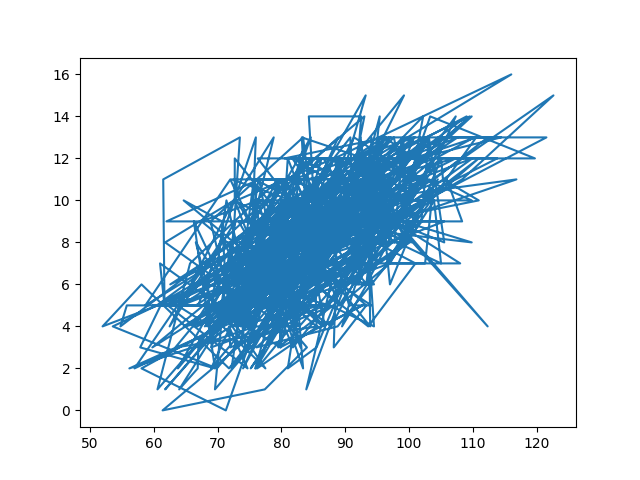
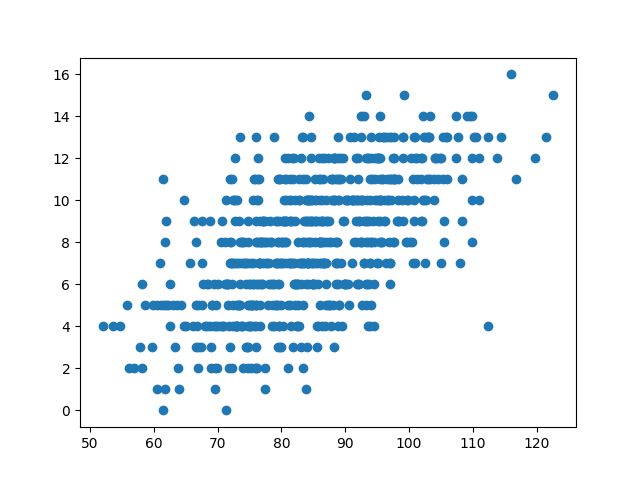
change line plot to scatter plot

diff --git a/algorithms/qb_impact_ensemble.py b/algorithms/qb_impact_ensemble.py
@@ -99,7 +99,7 @@ def main():
 	print(df_plot)
 	x_plot = df['QB Rating'].to_numpy()
 	y_plot = df['Wins'].to_numpy()
-	plt.plot(x_plot, y_plot)
+	plt.scatter(x_plot, y_plot)
 	plt.savefig('../assets/WinsVsRating.png')
 	min_max_scaler = MinMaxScaler()
 	data_minmax = min_max_scaler.fit_transform(X)
